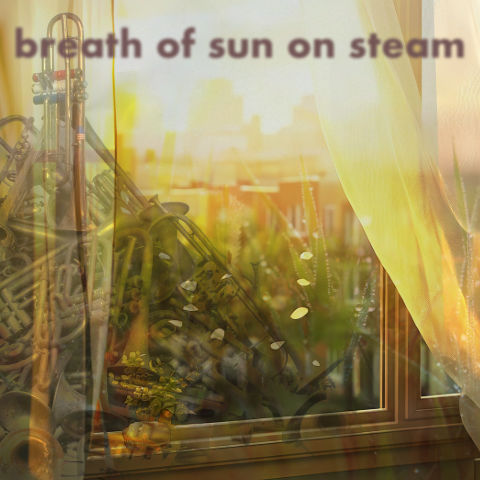
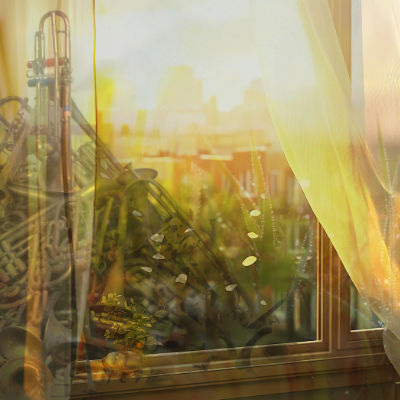
name change bogo

Changed region(s): [[0.03, 0.06, 0.57, 0.15], [0.6, 0.06, 0.99, 0.12]]

diff --git a/posts/2021-12-20-the-slip.md b/posts/2021-12-20-the-slip.md
@@ -23,5 +23,9 @@ It still doesn't quite feel the same as the full-blown episode/mixes, so given t
 148. [March 2020, 2020](/posts/148-march20202020) pandemic feels
 149. [Heath Magic](/posts/149-heathmagic) darkish, atmospheric 
 149. [Clearer Air](/posts/150-clearerair) ambient, jazz, soft 
+149. [When We Wore Wisps](/posts/151-when-we-wore-wisps) mystical, baroque, introspective
+149. [Dust Off the Broken Road](/posts/152-dust-off-the-broken-road) Folksy travellin tunes
+149. [A Wink and a Slink](/posts/153-breath-of-sun) Spicy, languid, jazz rap
+
 
 </div>

diff --git a/posts/153-wink-n-slink.md b/posts/153-wink-n-slink.md
@@ -1,6 +1,6 @@
 ---
 id: breathofsun
-title: Breath of sun on steam
+title: A Wink and a Slink
 date: 2025-02-16T19:52:45
 author: damon
 layout: post
@@ -45,3 +45,9 @@ that slides into a pretty epic climax
 1. Danger Mouse, Black Thought — Aquamarine (feat. Michael Kiwanuka)
 1. Little Simz — Introvert
 1. Nujabes — Luv(sic.) pt3 (feat. Shing02)
+
+A billow of pillow wandered off the sill.
+It darted in, around, swerving up and down
+With a wink, and a slink.
+SOMEONE HAS POKED YOU
+A wink and a slink
